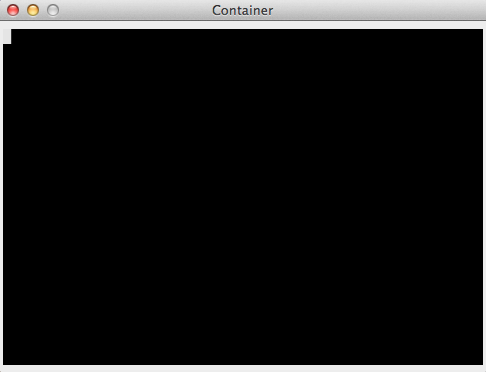
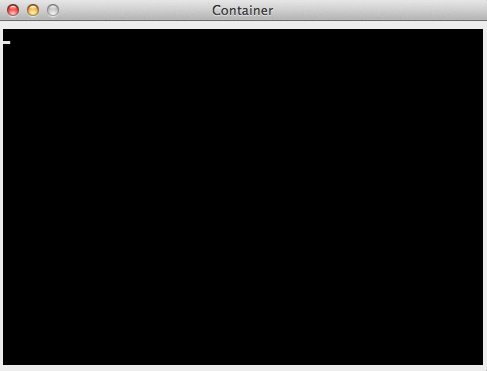
Updated README with stream examples. Clear the pixmap when first created.

diff --git a/README.md b/README.md
@@ -1,6 +1,6 @@
 # The CURSED Package
 
-The `cursed` package adds a subclass of the [output-pane](http://www.lispworks.com/documentation/lw61/CAPRM/html/capiref-275.htm#marker-4173290) element in [LispWorks'](http://www.lispworks.com) [CAPI](http://www.lispworks.com/documentation/lw61/CAPUG-M/html/capiuser-m.htm). It's designed to allow for simple, console-style display of text, but within a graphical UI.
+The `cursed` package adds a subclass of the [output-pane](http://www.lispworks.com/documentation/lw61/CAPRM/html/capiref-275.htm#marker-4173290) element in [LispWorks'](http://www.lispworks.com) [CAPI](http://www.lispworks.com/documentation/lw61/CAPUG-M/html/capiuser-m.htm). It's designed to allow for simple, console-style display of text, but within a graphical pane.
 
 ## Quickstart
 
@@ -11,13 +11,31 @@ You can immediately start using the `cursed-pane` by just containing one.
 	
 ![Initial pane with cursor visible](./screenshots/cursed-pane-01.png)
 	
-Once the pane is up, you can use one of the many available print functions to render text on it.
+Once the pane is up, you can use all of the Common Lisp printing and formatting functions to render text to the pane (it is a character output stream also!).
 
-	CL-USER > (princ-to-pane "Hello, world!" c :foreground :red)
+	CL-USER > (princ "Hello, world!" c)
+	"Hello, world!"
+	
+	CL-USER > (force-output c)
 	NIL
 
 ![With obligatory example](./screenshots/cursed-pane-02.png)
 
-You can use the `cursed-pane-cursor-x` and `cursed-pane-cursor-y` accessor methods to `setf` the cursor position. The cursor can also be toggled with the `cursed-pane-cursor-visible-p` accessor.
+You can use the `cursed-pane-cursor-x` and `cursed-pane-cursor-y` accessor methods to `setf` the cursor position. You can also use the Common Lisp `file-position` function.
 
+	CL-USER > (file-position c)
+	(13 0)
+	
+	CL-USER > (file-position c '(20 10))
+	10
+	
+	CL-USER > (format c "~a" '(1 2 3))
+	NIL
+	
+	CL-USER > (force-output c)
+	NIL
+
+![Rendering text elsewhere...](./screenshots/cursed-pane-03.png)
+
+The cursor can also be toggled on and off with the `cursed-pane-cursor-visible-p` accessor.
 
